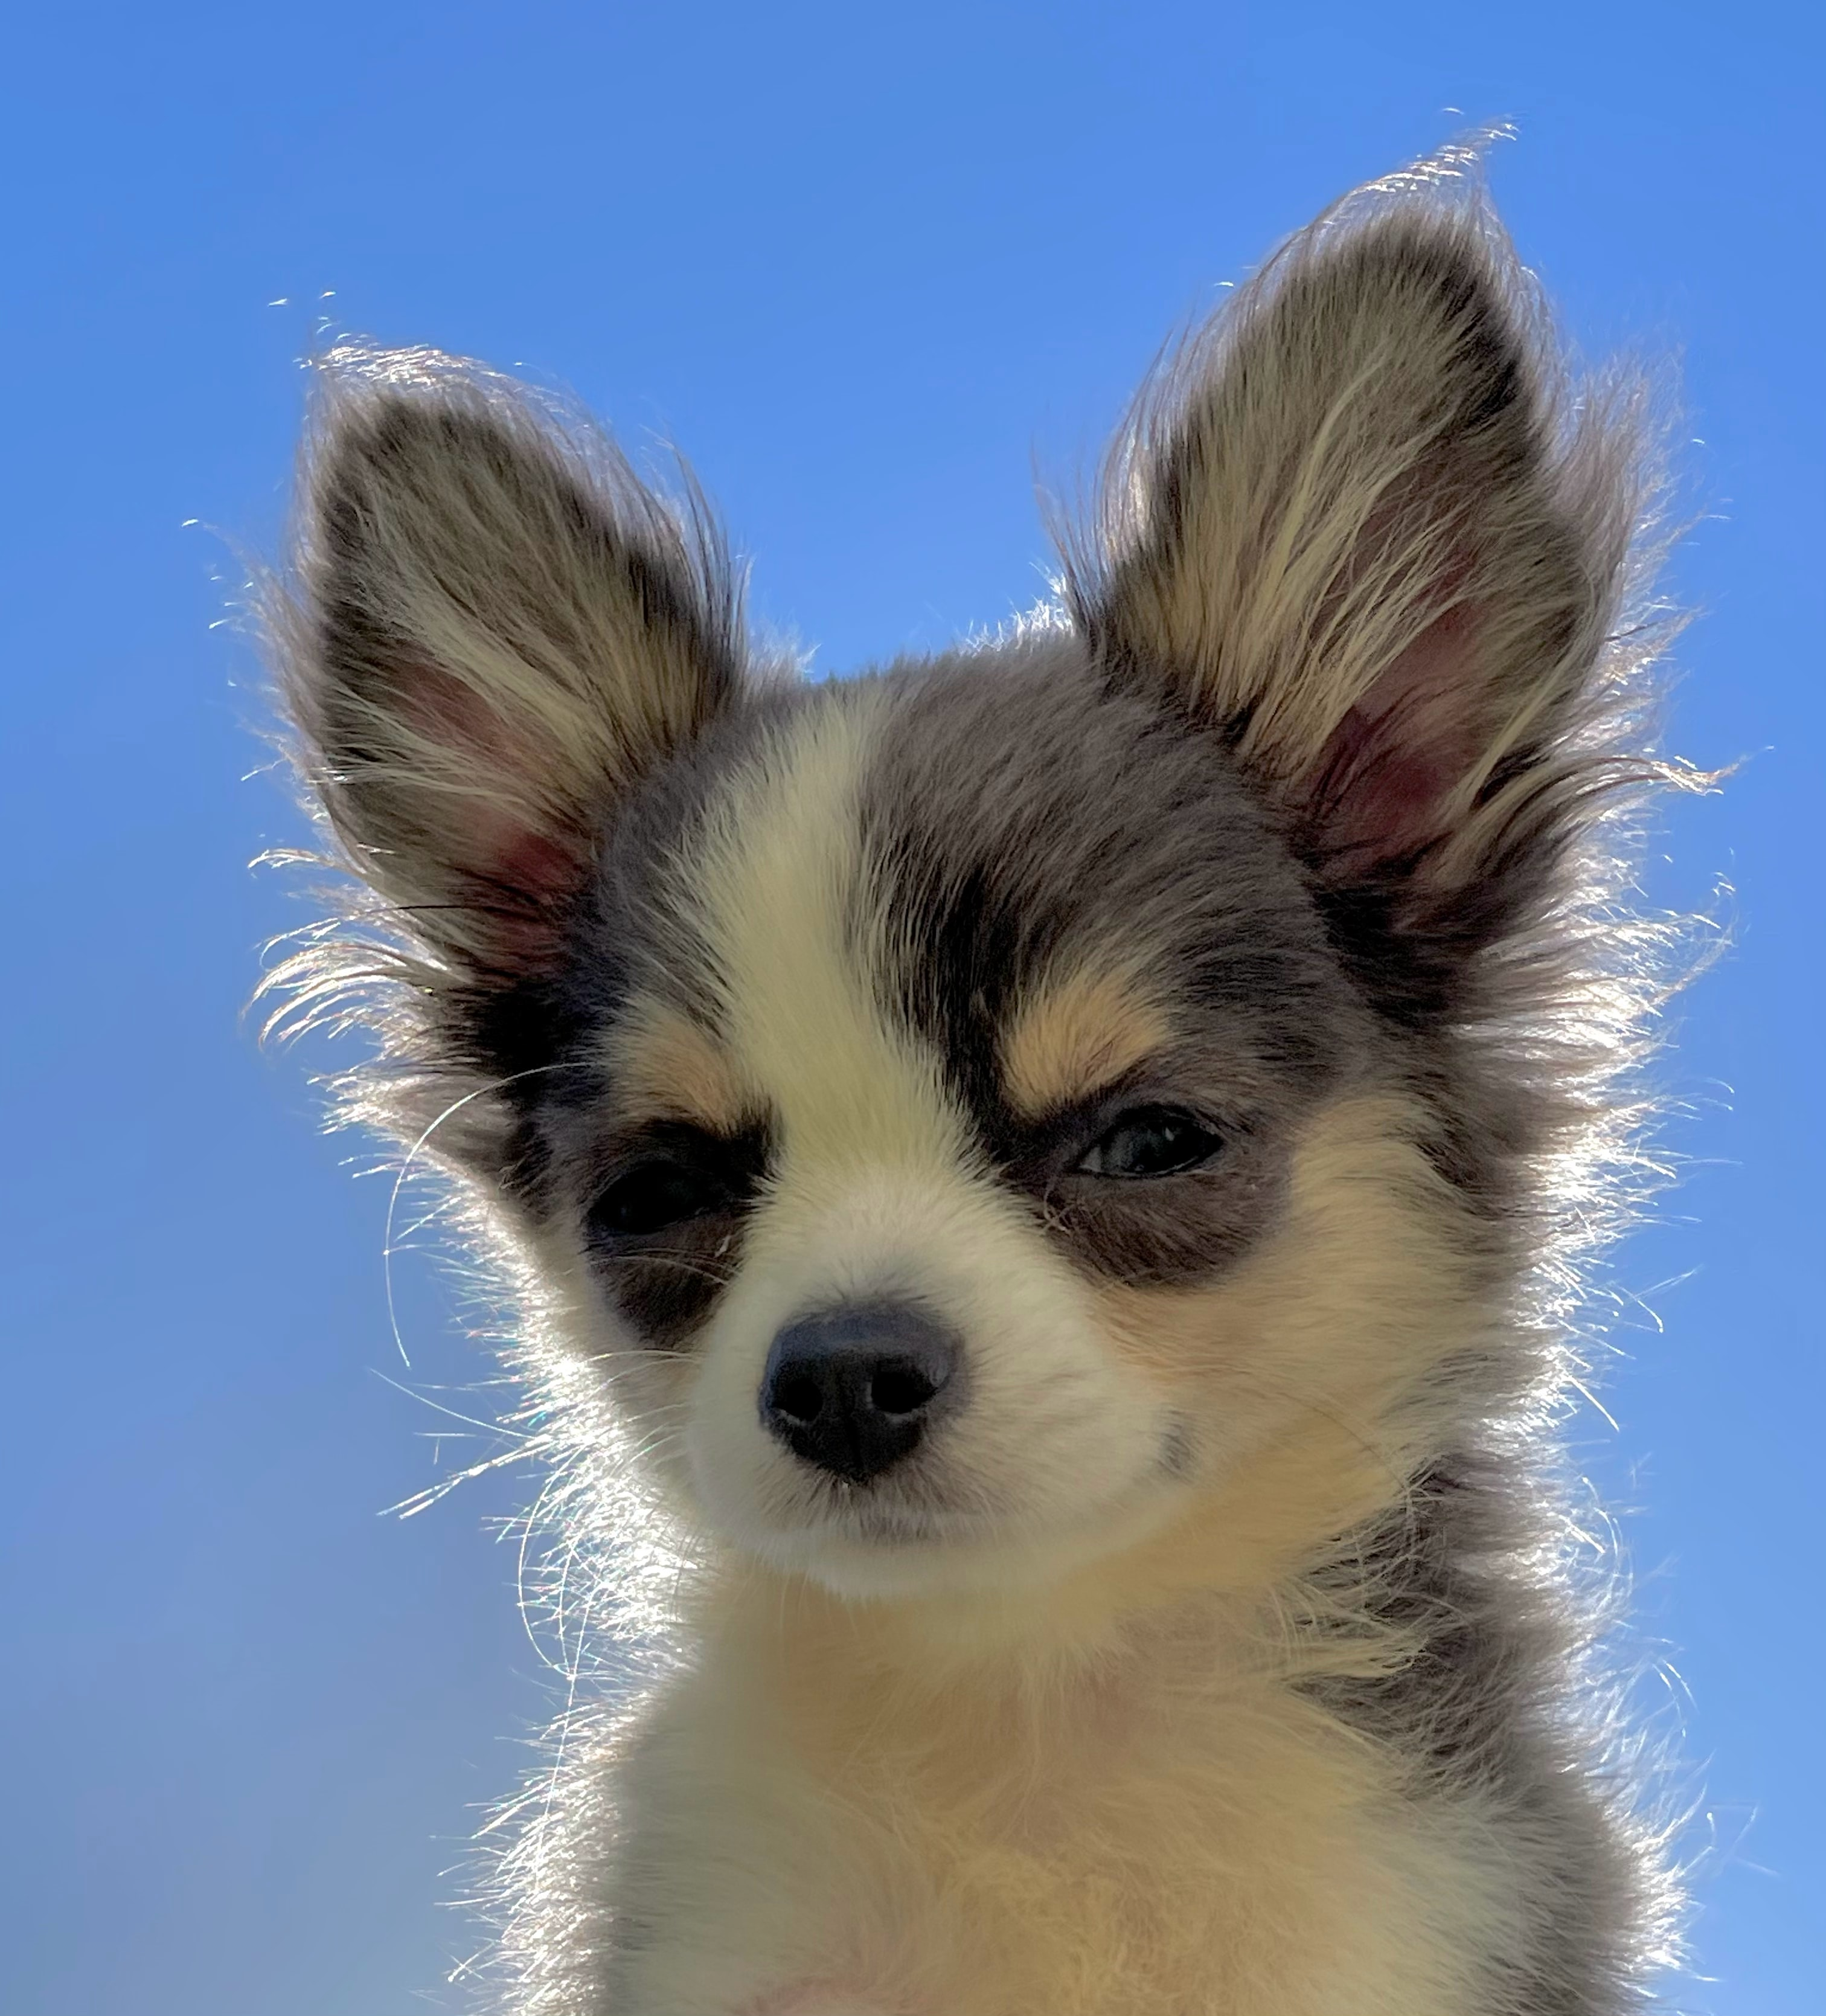
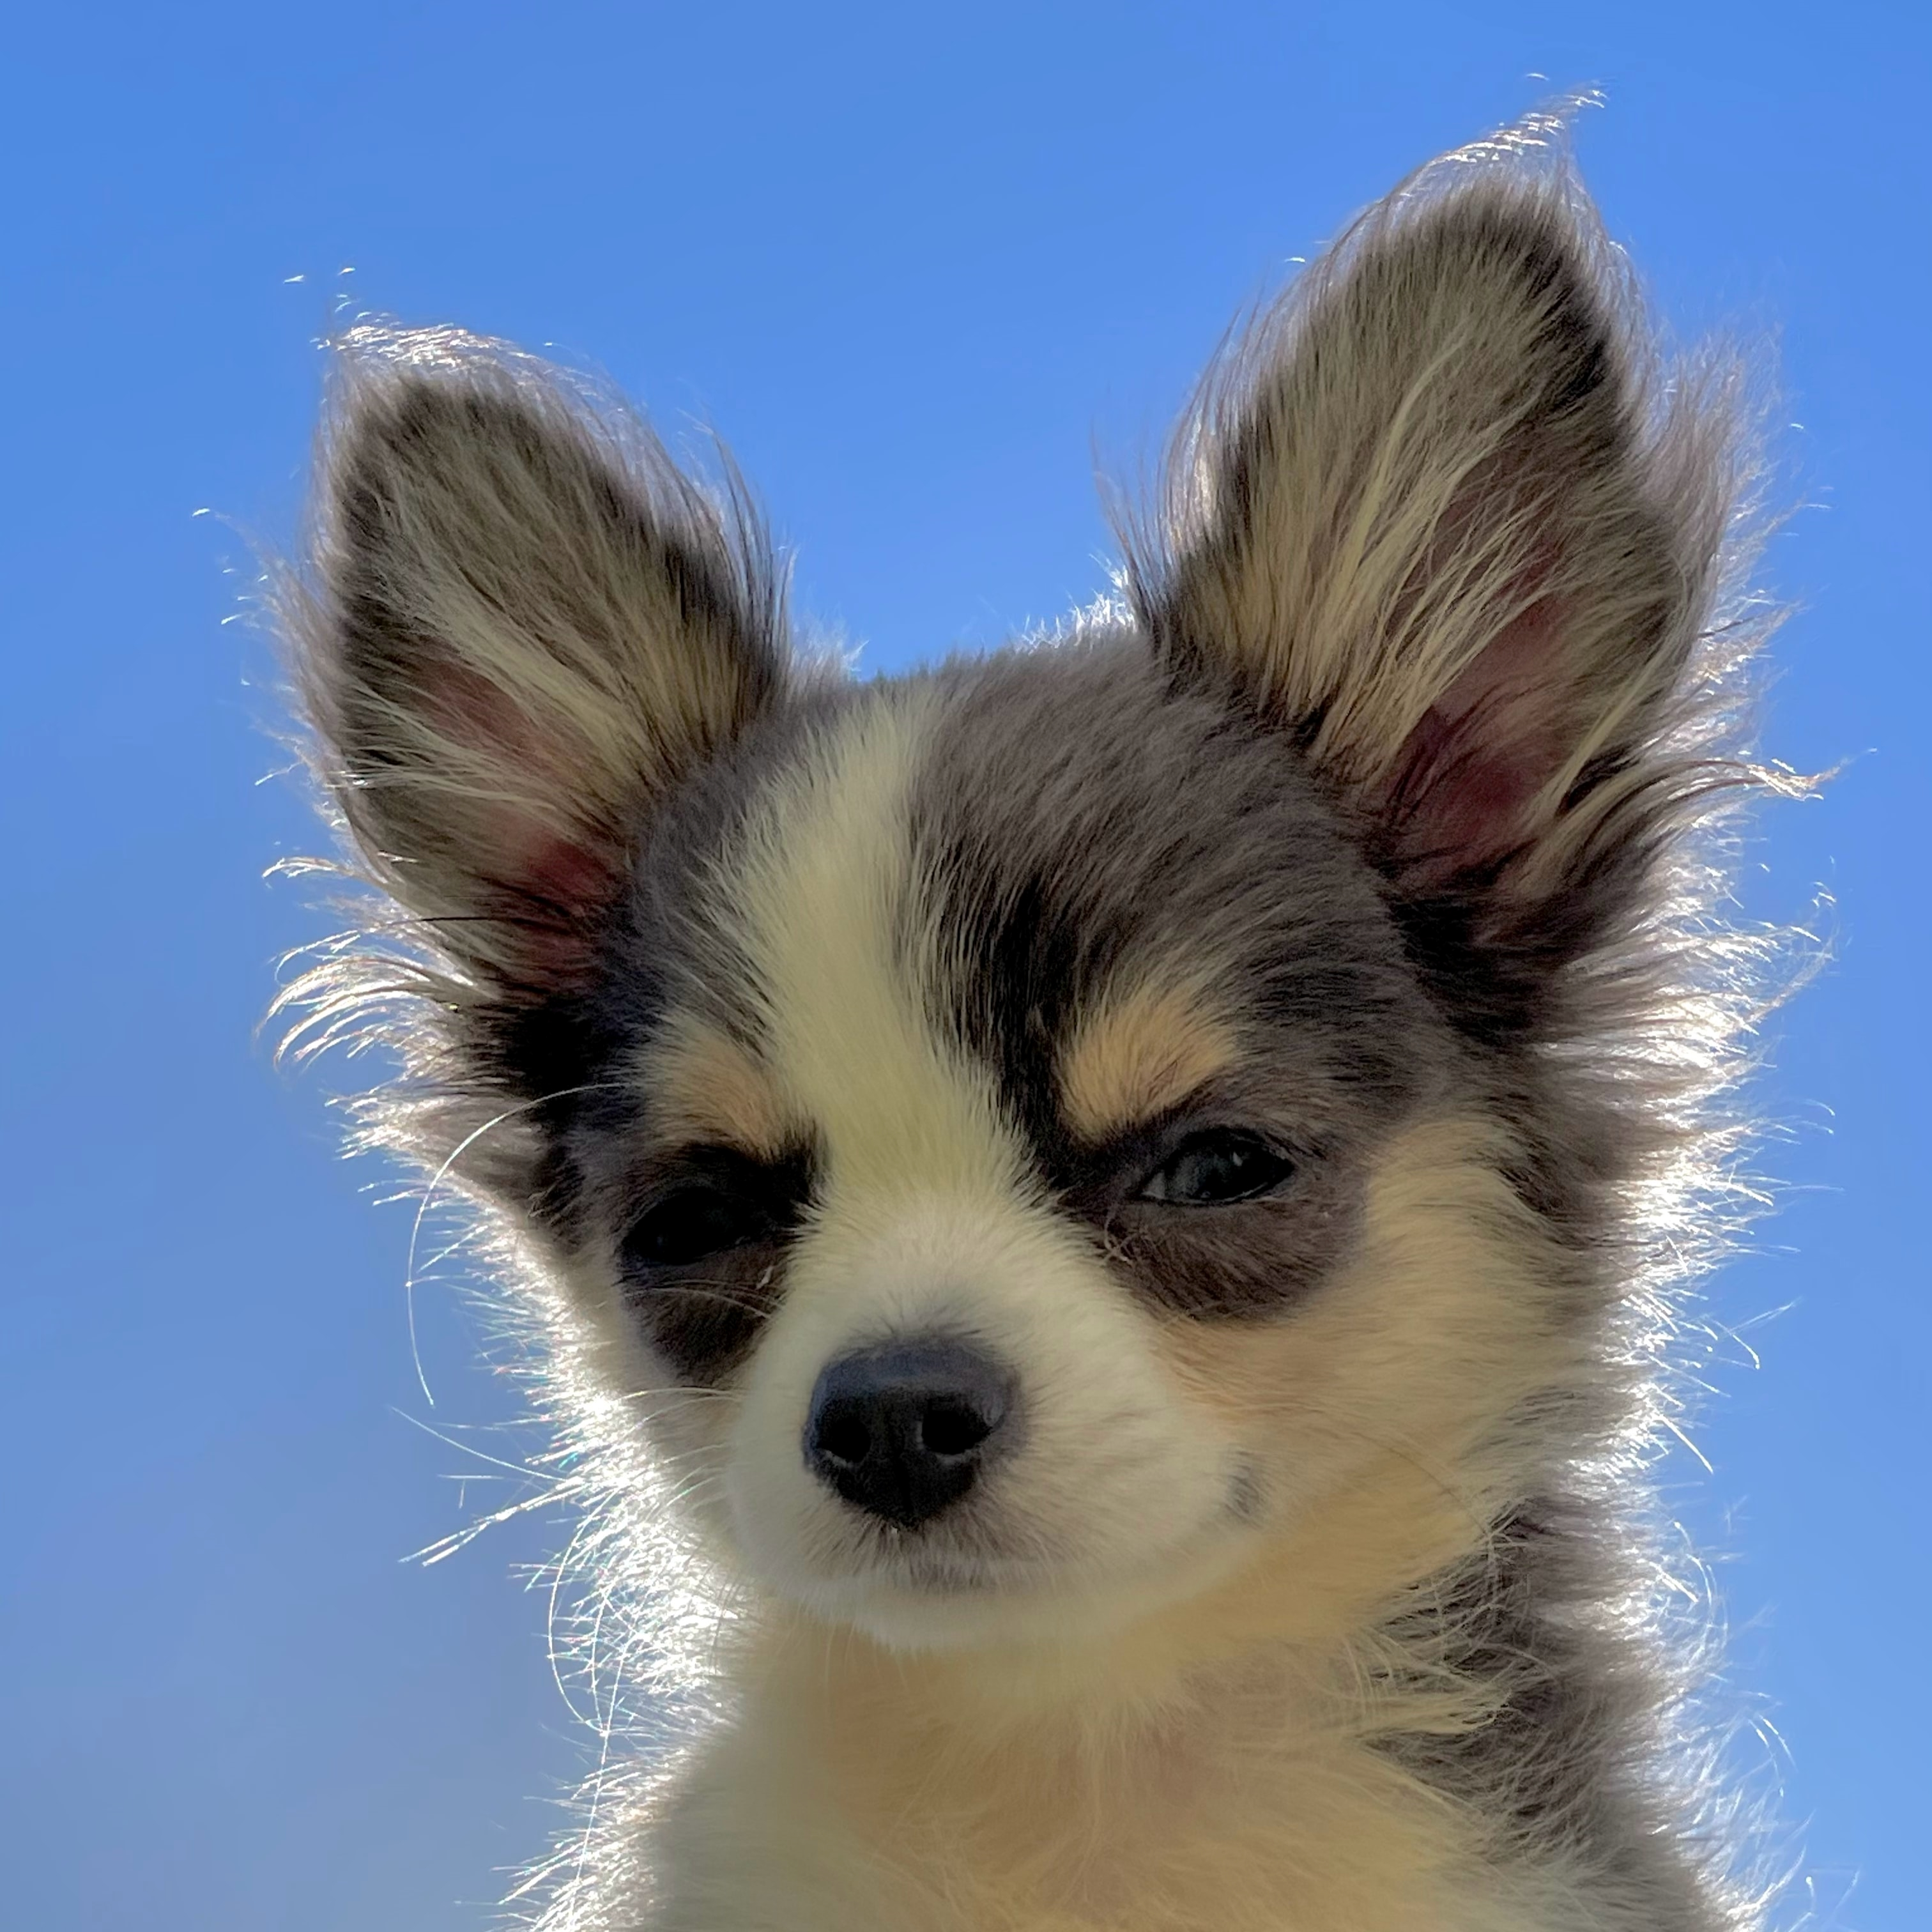
Use Image instead of img, change src -loading time

Changed region(s): [[0.1243, 0.0311, 0.9636, 1.0]]

diff --git a/pages/profile.js b/pages/profile.js
@@ -5,9 +5,6 @@ import Image from 'next/image';
 import { useRouter } from 'next/router';
 import { useState } from 'react';
 import Header from '../components/Header';
-import duck from '../public/duck.jpg';
-import kitten from '../public/kitten.jpg';
-import puppy from '../public/puppy.jpg';
 import {
   getActivities,
   getActivitiesByUserId,
@@ -57,9 +54,6 @@ const formStyles = css`
       outline: 6px solid #05396b;
       overflow: hidden;
       margin: 15px;
-      Image {
-        height: 100%;
-      }
     }
     input {
       opacity: 0;
@@ -227,7 +221,12 @@ export default function Registration(props) {
                 }}
               />
               <label htmlFor="duck" aria-labelledby="radio">
-                <Image src={duck} alt="a baby duck mid-walk" />
+                <Image
+                  src="/duck.jpg"
+                  alt="a baby duck mid-walk"
+                  width="80px"
+                  height="80px"
+                />
               </label>
             </div>
             <div>
@@ -241,8 +240,28 @@ export default function Registration(props) {
               />
               <label htmlFor="kitten" aria-labelledby="radio">
                 <Image
-                  src={kitten}
+                  width="80px"
+                  height="80px"
+                  src="/kitten.jpg"
                   alt="super cute kitten looking up at the viewer"
+                />
+              </label>
+            </div>
+            <div>
+              <input
+                type="radio"
+                name="avatar"
+                id="puppy"
+                onChange={() => {
+                  setAvatar('/puppy.jpg');
+                }}
+              />
+              <label htmlFor="puppy" aria-labelledby="radio">
+                <Image
+                  src="/puppy.jpg"
+                  width="80px"
+                  height="80px"
+                  alt="portrait of a puppy with a somewhat mischieveous twinkle in its eye"
                 />
               </label>
             </div>
@@ -257,22 +276,6 @@ export default function Registration(props) {
               />
               <label htmlFor="gravatar" aria-labelledby="radio">
                 <img src={gravatar} alt="your gravatar profile" />
-              </label>
-            </div>
-            <div>
-              <input
-                type="radio"
-                name="avatar"
-                id="puppy"
-                onChange={() => {
-                  setAvatar('/puppy.jpg');
-                }}
-              />
-              <label htmlFor="puppy" aria-labelledby="radio">
-                <Image
-                  src={puppy}
-                  alt="portrait of a puppy with a somewhat mischieveous twinkle in its eye"
-                />
               </label>
             </div>
           </div>

diff --git a/pages/register.js b/pages/register.js
@@ -5,9 +5,6 @@ import Image from 'next/image';
 import Link from 'next/link';
 import { useRouter } from 'next/router';
 import { useState } from 'react';
-import duck from '../public/duck.jpg';
-import kitten from '../public/kitten.jpg';
-import puppy from '../public/puppy.jpg';
 import { createCsrfToken } from '../util/auth';
 import { getActivities, getSessionByToken } from '../util/database';
 import { addActivity, createMutation } from './api/client';
@@ -70,10 +67,6 @@ const formStyles = css`
       outline: 6px solid #05396b;
       overflow: hidden;
       margin: 15px;
-      Image,
-      img {
-        height: 100%;
-      }
     }
     input {
       opacity: 0;
@@ -268,7 +261,12 @@ export default function Registration(props) {
                 }}
               />
               <label htmlFor="duck" aria-labelledby="radio">
-                <Image src={duck} alt="a baby duck mid-walk" />
+                <Image
+                  src="/duck.jpg"
+                  alt="a baby duck mid-walk"
+                  width="80px"
+                  height="80px"
+                />
               </label>
             </div>
             <div>
@@ -282,7 +280,9 @@ export default function Registration(props) {
               />
               <label htmlFor="kitten" aria-labelledby="radio">
                 <Image
-                  src={kitten}
+                  src="/kitten.jpg"
+                  width="80px"
+                  height="80px"
                   alt="super cute kitten looking up at the viewer"
                 />
               </label>
@@ -298,7 +298,9 @@ export default function Registration(props) {
               />
               <label htmlFor="puppy" aria-labelledby="radio">
                 <Image
-                  src={puppy}
+                  src="/puppy.jpg"
+                  width="80px"
+                  height="80px"
                   alt="portrait of a puppy with a somewhat mischieveous twinkle in its eye"
                 />
               </label>

diff --git a/pages/chats/[chatId].js b/pages/chats/[chatId].js
@@ -35,11 +35,6 @@ const members = css`
     border-radius: 50%;
     overflow: hidden;
     margin: 10px;
-    img {
-      outline: 6px solid #fff001;
-      height: 100%;
-      width: 100%;
-    }
   }
 `;
 
@@ -187,7 +182,16 @@ export default function TestChat(props) {
                   className="buddies"
                 >
                   <div className="avatar">
-                    <img src={member.avatar} alt="" />
+                    <Image
+                      src={member.avatar}
+                      alt={
+                        member.avatar.length > 10
+                          ? 'gravatar profile picture'
+                          : `user avatar of a ${member.avatar.slice(1, -4)}`
+                      }
+                      width="30px"
+                      height="30px"
+                    />
                   </div>
                   <span>{member.name}</span>
                 </div>

diff --git a/pages/users/[userId].js b/pages/users/[userId].js
@@ -18,10 +18,6 @@ const avatar = css`
   overflow: hidden;
   margin: 10px;
   text-align: center;
-  img {
-    height: 100%;
-    width: 100%;
-  }
 `;
 
 const activity = css`
@@ -88,9 +84,15 @@ export default function User(props) {
           />
         </h1>
         <div css={avatar}>
-          <img
+          <Image
+            width="100px"
+            height="100px"
             src={props.currentUser.avatar}
-            alt={`user avatar of a ${props.currentUser.avatar.slice(1, -4)}`}
+            alt={
+              props.currentUser.avatar.length > 10
+                ? 'gravatar profile picture'
+                : `user avatar of a ${props.currentUser.avatar.slice(1, -4)}`
+            }
           />
         </div>
         <p>

diff --git a/components/Header.tsx b/components/Header.tsx
@@ -66,10 +66,6 @@ const headerStyles = css`
     outline: 2px solid #545659;
     overflow: hidden;
     transform: translateY(10px);
-    img {
-      height: 100%;
-      width: 100%;
-    }
   }
 `;
 
@@ -122,7 +118,9 @@ export default function Header(props: Props) {
             <a>
               {props.user.name}
               <div className="avatar">
-                <img
+                <Image
+                  width="30px"
+                  height="30px"
                   src={props.user.avatar}
                   alt={
                     props.user.avatar.length > 10

diff --git a/pages/matches.tsx b/pages/matches.tsx
@@ -51,10 +51,6 @@ const userStyles = (grayScale: number, checked: number) => css`
       outline: 6px solid #05396b;
       overflow: hidden;
       margin-bottom: 16px;
-      img {
-        width: 100%;
-        height: 100%;
-      }
     }
   }
   .bio {
@@ -275,7 +271,9 @@ export default function Matches(props: Props) {
                 <div className="name">
                   <h2>{m.matchInfo.name}</h2>
                   <div className="avatar">
-                    <img
+                    <Image
+                      width="80px"
+                      height="80px"
                       src={m.matchInfo.avatar}
                       alt={
                         m.matchInfo.avatar.length > 10